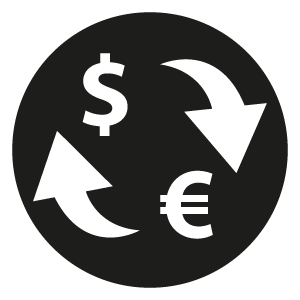
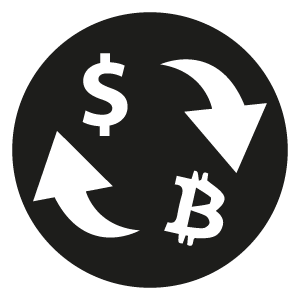
End Services

Changed region(s): [[0.51, 0.57, 0.75, 0.84]]

diff --git a/Client/src/components/Sections/Services/Services.jsx b/Client/src/components/Sections/Services/Services.jsx
@@ -1,7 +1,8 @@
 import React from "react";
 import './services.css'
-import bitcoin from '../../../assets/img/bit.png'
-import wallet from '../../../assets/img/wallet.png'
+import compraCryp from '../../../assets/img/compra.png'
+import criptomonedas from '../../../assets/img/cryptocurrency.png'
+import retiro from '../../../assets/img/retiro.png'
 
 function Services() {
   return (
@@ -12,13 +13,12 @@ function Services() {
         <div className="col-12 col-md-4 d-flex justify-content-center">
           <div class="card-contain">
             <div class="card-image">
-              <img src={bitcoin} alt="bitcoin" width="100"/>
+              <img src={criptomonedas} alt="criptomonedas" width="75"/>
             </div>
             <div class="card-info">
-              <p class="text-title">Autor</p>
+              <p class="text-title">Analiza el mercado</p>
               <p class="text-body">
-                Lorem ipsum dolor sit amet consectetur adipisicing elit.
-                Corrupti repellat, consequuntur doloribus voluptate esse iure?
+              Conoce las principales criptos, como funcionan y que mueve el mercado.
               </p>
             </div>
           </div>
@@ -26,25 +26,25 @@ function Services() {
         <div className="col-12 col-md-4 d-flex justify-content-center">
           <div class="card-contain">
             <div class="card-image">
-              <img src={wallet} alt="bitcoin" className="figure-img" width="65"/>
+            <img src={compraCryp} alt="compraCryp" width="75"/>
             </div>
             <div class="card-info">
-              <p class="text-title">Autor</p>
+              <p class="text-title">Comprar</p>
               <p class="text-body">
-                Lorem ipsum dolor sit amet consectetur adipisicing elit.
-                Corrupti repellat, consequuntur doloribus voluptate esse iure?
+                Acceder a Bitcoin, Etherum, Litecion y otros activos digitales en pocos pasos.
               </p>
             </div>
           </div>
         </div>
         <div className="col-12 col-md-4 d-flex justify-content-center">
           <div class="card-contain">
-            <div class="card-image"></div>
+          <div class="card-image">
+              <img src={retiro} alt="bitcoin" className="figure-img" width="65"/>
+            </div>
             <div class="card-info">
-              <p class="text-title">Autor</p>
+              <p class="text-title">Vender</p>
               <p class="text-body">
-                Lorem ipsum dolor sit amet consectetur adipisicing elit.
-                Corrupti repellat, consequuntur doloribus voluptate esse iure?
+                Transforma tus criptos en otras divisas y/o dolares de manera rapida y segura.
               </p>
             </div>
           </div>
